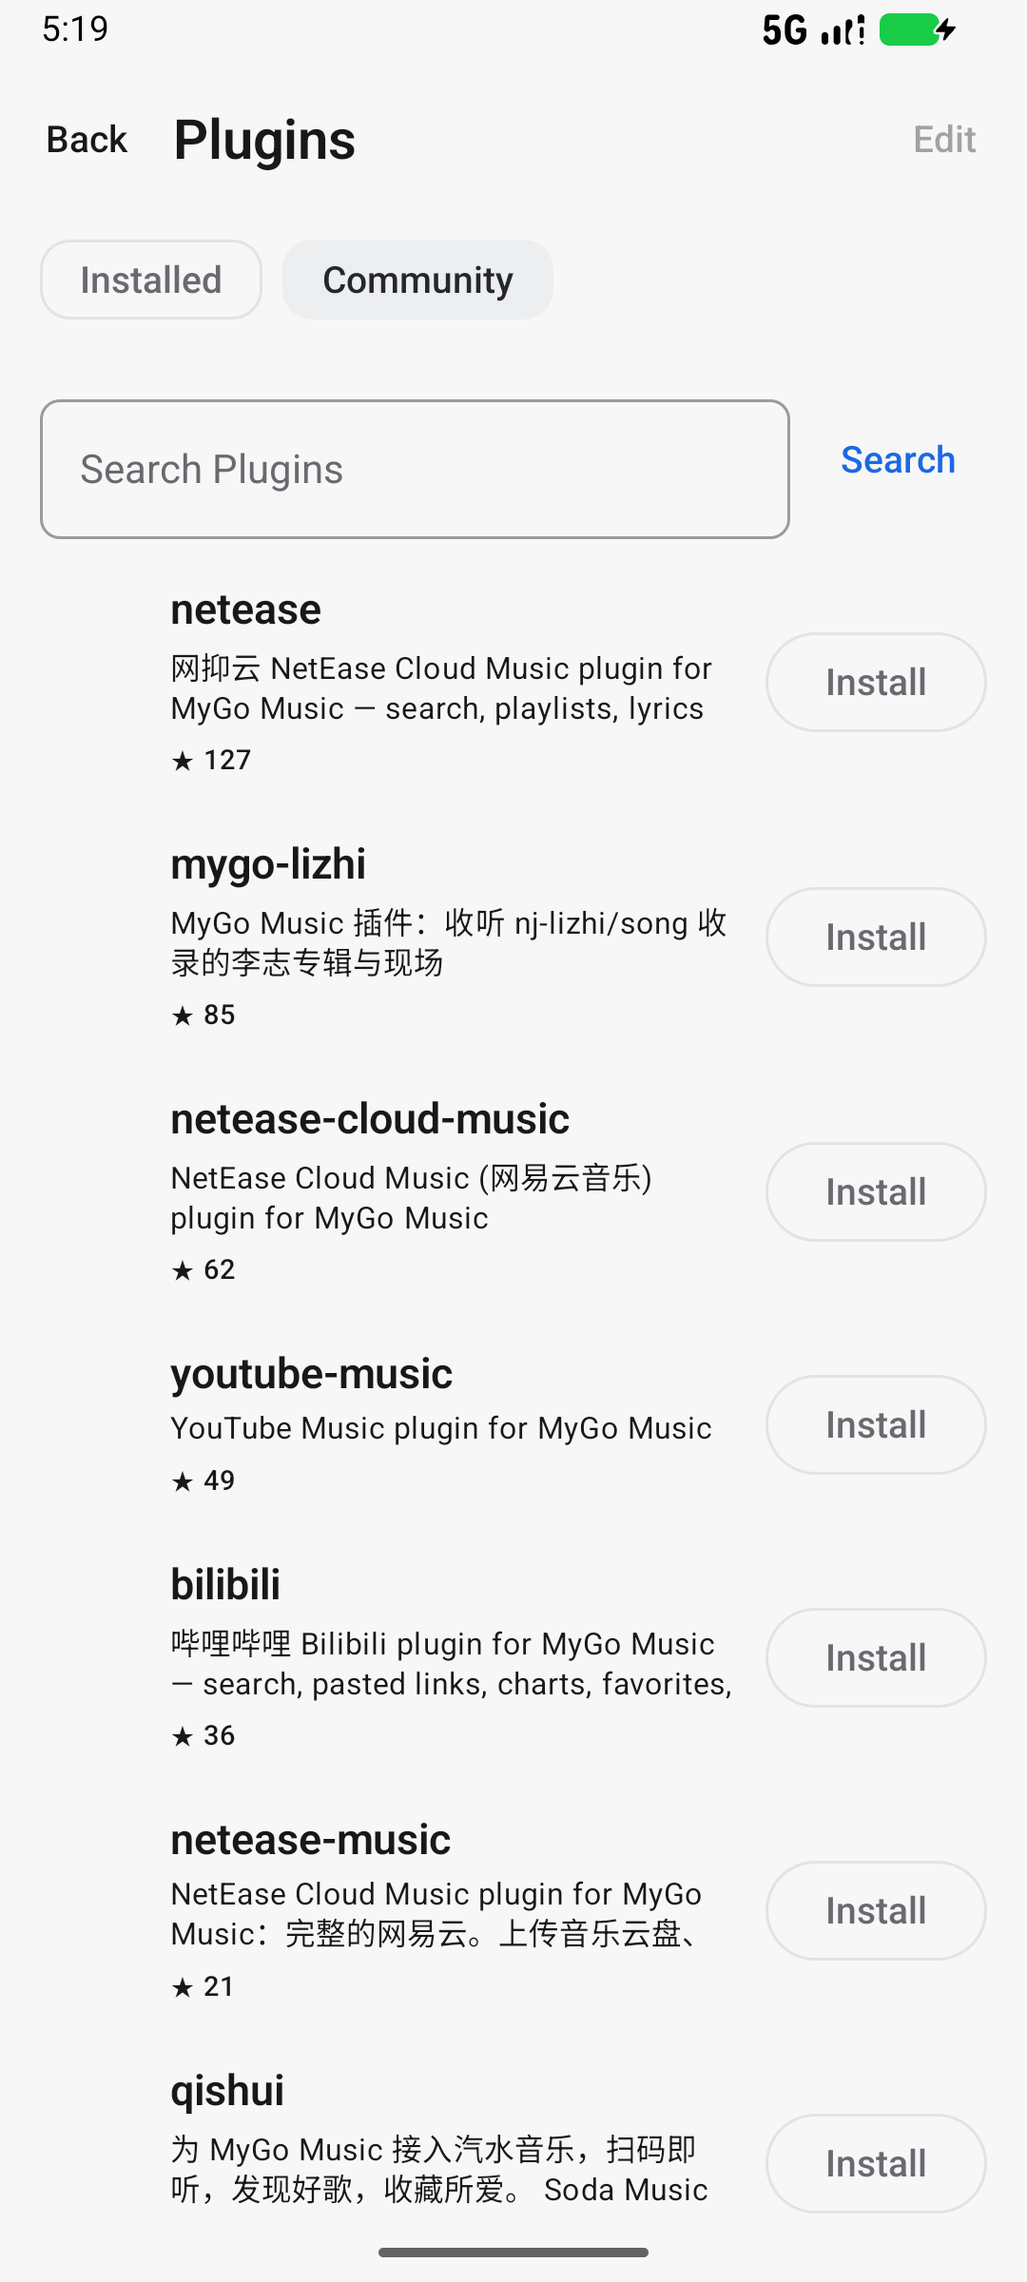
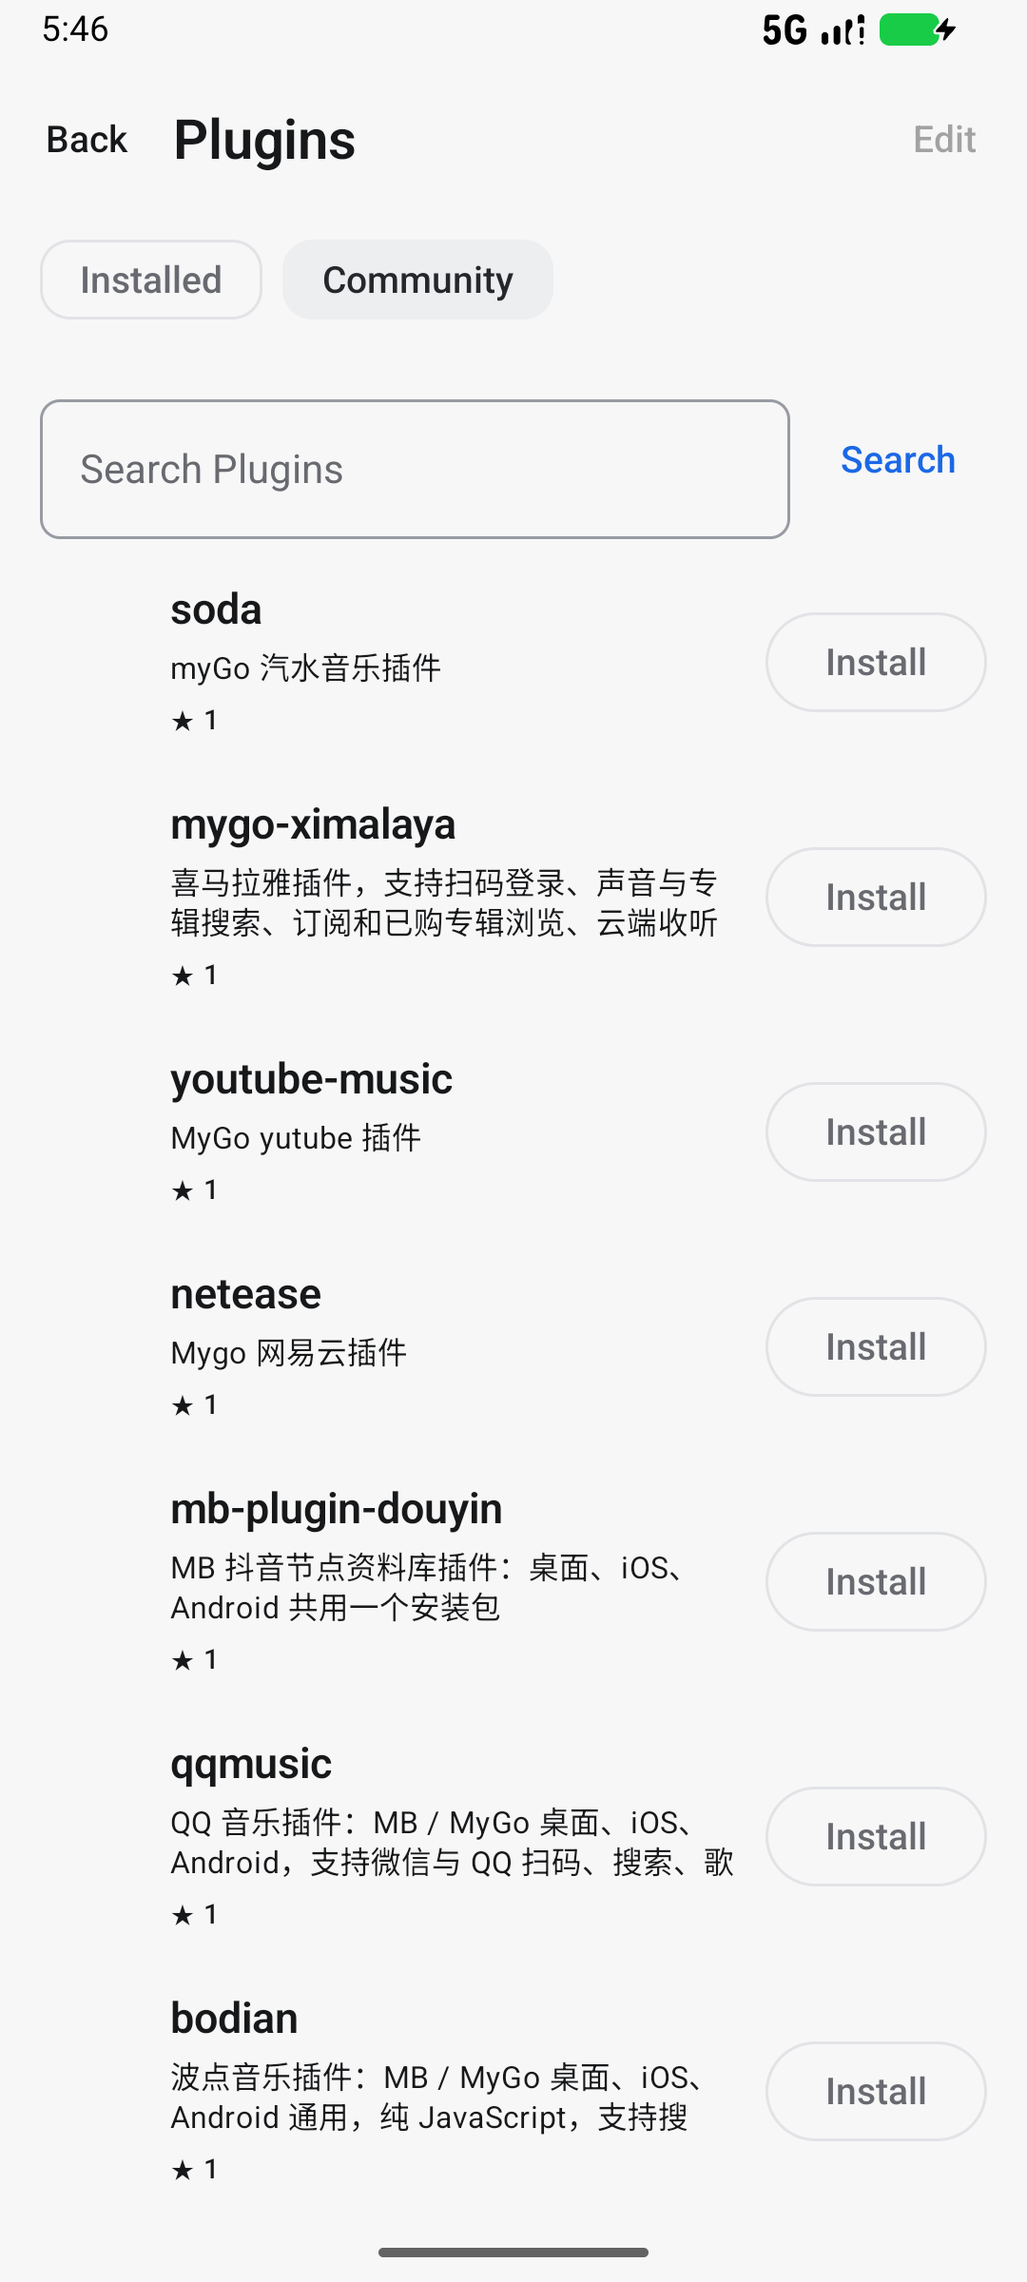
社区改用山海维护列表并移除 Android 批量导入

diff --git a/android/app/src/main/java/com/xtreeroot/mb/plugin/PluginCommunity.kt b/android/app/src/main/java/com/xtreeroot/mb/plugin/PluginCommunity.kt
@@ -1,14 +1,12 @@
 package com.xtreeroot.mb.plugin
 
 import java.io.File
-import java.net.URI
 import kotlinx.coroutines.CancellationException
 import kotlinx.coroutines.CoroutineScope
 import kotlinx.coroutines.Job
 import kotlinx.coroutines.flow.MutableStateFlow
 import kotlinx.coroutines.flow.asStateFlow
 import kotlinx.coroutines.launch
-import okhttp3.HttpUrl.Companion.toHttpUrl
 import org.json.JSONObject
 
 internal data class CommunityPlugin(val repository: String, val name: String, val description: String,
@@ -18,21 +16,23 @@ internal data class CommunityPlugin(val repository: String, val name: String, va
 internal data class PluginCommunityPage(val plugins: List<CommunityPlugin>, val more: Boolean)
 
 internal object PluginCommunity {
-    fun address(query: String, page: Int): URI = "https://api.github.com/search/repositories".toHttpUrl().newBuilder()
-        .addQueryParameter("q", "${query.trim()} topic:mygo-music-plugin archived:false".trim())
-        .addQueryParameter("sort", "stars").addQueryParameter("per_page", "30")
-        .addQueryParameter("page", page.coerceAtLeast(1).toString()).build().toUri()
+    const val catalog = "https://github.com/stars/xTreeRoot/lists/fork-mygo-%E5%B1%B1%E6%B5%B7-%E8%87%AA%E8%A1%8C%E7%BB%B4%E6%8A%A4%E4%BB%93%E5%BA%93-%E5%A4%9A%E5%B9%B3%E5%8F%B0"
 
-    fun decode(json: JSONObject, page: Int): PluginCommunityPage {
-        val items = json.getJSONArray("items")
-        val plugins = List(items.length()) { index ->
-            val item = items.getJSONObject(index)
-            val name = item.getString("name").replace(Regex("(?i)^mygo-music-(plugin-)?"), "")
-            CommunityPlugin(PluginRepository.parse(item.getString("full_name")), name,
-                if (item.isNull("description")) "" else item.getString("description"),
-                item.optJSONObject("owner")?.optString("avatar_url")?.takeIf(String::isNotBlank), item.optInt("stargazers_count"))
-        }
-        return PluginCommunityPage(plugins, plugins.size == 30 && page.coerceAtLeast(1) * 30 < minOf(json.getInt("total_count"), 1000))
+    fun page(catalog: List<CommunityPlugin>, query: String, page: Int): PluginCommunityPage {
+        val search = query.trim().lowercase(java.util.Locale.ROOT)
+        val filtered = catalog.filter { search.isEmpty() || "${it.name}\n${it.repository}\n${it.description}".lowercase(java.util.Locale.ROOT).contains(search) }
+        val start = minOf((page.coerceAtLeast(1) - 1) * 30, filtered.size)
+        val end = minOf(start + 30, filtered.size)
+        return PluginCommunityPage(filtered.subList(start, end), end < filtered.size)
+    }
+
+    fun repository(repository: String, metadata: JSONObject?): CommunityPlugin {
+        val repo = PluginRepository.parse(repository)
+        val raw = repo.substringAfter('/')
+        return CommunityPlugin(repo, raw.replace(Regex("(?i)^mygo-music-(plugin-)?"), "").ifBlank { raw },
+            metadata?.optString("description")?.takeUnless { it.isBlank() || it == "null" } ?: repo,
+            metadata?.optJSONObject("owner")?.optString("avatar_url")?.takeIf(String::isNotBlank)
+                ?: "https://github.com/${repo.substringBefore('/')}.png?size=120", metadata?.optInt("stargazers_count") ?: 0)
     }
 }
 

diff --git a/android/app/src/main/java/com/xtreeroot/mb/ui/PluginsView.kt b/android/app/src/main/java/com/xtreeroot/mb/ui/PluginsView.kt
@@ -56,7 +56,6 @@ internal fun PluginsView(model: PluginManagerModel, state: PluginManagerState, r
     var showFolder by rememberSaveable { mutableStateOf(false) }
     var repository by rememberSaveable { mutableStateOf("") }
     var showGitHub by rememberSaveable { mutableStateOf(false) }
-    var batchImport by rememberSaveable { mutableStateOf(false) }
     var reordering by rememberSaveable { mutableStateOf(false) }
     var rename by remember { mutableStateOf<InstalledPlugin?>(null) }
     var localName by remember { mutableStateOf("") }
@@ -99,8 +98,8 @@ internal fun PluginsView(model: PluginManagerModel, state: PluginManagerState, r
             if (community) PluginCommunityView(model.community, state.installed, state.busy, { model.prepareGitHub(it) })
             else PluginsOverview(state, reordering, { selected = it.id },
             { localName = it.localName.orEmpty(); rename = it }, { remove = it }, model::move,
-            { repository = ""; batchImport = true; showGitHub = true }, model::updateAll,
-            { showZip = true }, { showFolder = true }, { repository = ""; batchImport = false; showGitHub = true }, Modifier.weight(1f), display = { displaySettings = it }, marked = state.lastInstalledID)
+            model::updateAll,
+            { showZip = true }, { showFolder = true }, { repository = ""; showGitHub = true }, Modifier.weight(1f), display = { displaySettings = it }, marked = state.lastInstalledID)
         }
     }
     androidx.activity.compose.BackHandler(selected != null) { selected = null }
@@ -121,14 +120,14 @@ internal fun PluginsView(model: PluginManagerModel, state: PluginManagerState, r
     state.importReport?.let { PluginUpdateResultDialog(it, imported = true, model::dismissImportReport) }
     if (showGitHub) AlertDialog(
         onDismissRequest = { showGitHub = false }, title = {
-            Text(if (batchImport) mb("一键导入/覆盖", "Import / Overwrite") else mb("从 GitHub 安装", "Install from GitHub"))
+            Text(mb("从 GitHub 安装", "Install from GitHub"))
         },
         text = { OutlinedTextField(repository, { repository = it }, label = {
-            Text(if (batchImport) mb("插件仓库或列表网页地址", "Plugin repository or catalog web address") else "owner/repository")
+            Text("owner/repository")
         }, singleLine = true) },
         confirmButton = { TextButton(onClick = {
             showGitHub = false
-            if (batchImport) model.importGitHub(repository) else model.prepareGitHub(repository)
+            model.prepareGitHub(repository)
         }, enabled = repository.isNotBlank() && !state.busy) { Text(mb("检查", "Check")) } },
         dismissButton = { TextButton(onClick = { showGitHub = false }) { Text(mb("取消", "Cancel")) } },
     )

diff --git a/android/app/src/main/java/com/xtreeroot/mb/plugin/PluginRepository.kt b/android/app/src/main/java/com/xtreeroot/mb/plugin/PluginRepository.kt
@@ -1,5 +1,13 @@
 package com.xtreeroot.mb.plugin
 
+import kotlinx.coroutines.CancellationException
+import kotlinx.coroutines.async
+import kotlinx.coroutines.awaitAll
+import kotlinx.coroutines.coroutineScope
+import kotlinx.coroutines.sync.Mutex
+import kotlinx.coroutines.sync.withLock
+import kotlinx.coroutines.sync.Semaphore
+import kotlinx.coroutines.sync.withPermit
 import java.io.ByteArrayOutputStream
 import java.io.File
 import java.net.URI
@@ -79,8 +87,29 @@ internal object PluginRepository {
 }
 
 internal class GitHubPluginPackages(private val transport: PluginHttpTransport, private val abis: List<String>) {
-    suspend fun community(query: String, page: Int): PluginCommunityPage =
-        PluginCommunity.decode(checkNotNull(metadata(PluginCommunity.address(query, page))), page)
+    private val communityGate = Mutex()
+    private var communityCache: List<CommunityPlugin> = emptyList()
+    private var communityAt = 0L
+
+    suspend fun community(query: String, page: Int): PluginCommunityPage = communityGate.withLock {
+        if (communityAt == 0L || System.nanoTime() - communityAt >= java.util.concurrent.TimeUnit.HOURS.toNanos(1)) {
+            val excluded = setOf("xtreeroot/mb", "xtreeroot/shanhaimusic", "xtreeroot/mb-plugin-template")
+            val repos = repositories(PluginCommunity.catalog).filterNot { it.lowercase() in excluded }
+            val gate = Semaphore(4)
+            communityCache = coroutineScope {
+                repos.map { repo -> async {
+                    gate.withPermit {
+                        val info = try { metadata(uri("https://api.github.com/repos/$repo")) }
+                        catch (cancelled: CancellationException) { throw cancelled }
+                        catch (_: Exception) { null }
+                        PluginCommunity.repository(repo, info)
+                    }
+                } }.awaitAll()
+            }
+            communityAt = System.nanoTime()
+        }
+        PluginCommunity.page(communityCache, query, page)
+    }
 
     suspend fun repositories(input: String): List<String> {
         GitHubStarsList.repository(input)?.let { return listOf(it) }

diff --git a/android/app/src/test/java/com/xtreeroot/mb/plugin/PluginCommunityTest.kt b/android/app/src/test/java/com/xtreeroot/mb/plugin/PluginCommunityTest.kt
@@ -17,15 +17,15 @@ import org.junit.Test
 class PluginCommunityTest {
     private fun plugin(repo: String) = CommunityPlugin(repo, repo, "", null, 0)
 
-    @Test fun requestEncodesQueryAndStopsAtGitHubSearchLimit() {
-        val address = PluginCommunity.address(" 中文 & radio ", 0).toString().toHttpUrl()
-        assertEquals("中文 & radio topic:mygo-music-plugin archived:false", address.queryParameter("q"))
-        assertEquals("1", address.queryParameter("page"))
-        val item = JSONObject().put("full_name", "owner/radio").put("name", "mygo-music-plugin-radio").put("description", JSONObject.NULL)
-        val json = JSONObject().put("total_count", 5000).put("items", JSONArray(List(30) { item }))
-        assertTrue(PluginCommunity.decode(json, 33).more)
-        assertFalse(PluginCommunity.decode(json, 34).more)
-        assertEquals("radio", PluginCommunity.decode(json, 1).plugins.first().name)
+    @Test fun searchAndPaginationStayInsideMaintainedList() {
+        assertTrue(PluginCommunity.catalog.startsWith("https://github.com/stars/xTreeRoot/lists/"))
+        val catalog = List(32) { plugin("owner/plugin-$it") }
+        assertEquals(30, PluginCommunity.page(catalog, "", 1).plugins.size)
+        assertTrue(PluginCommunity.page(catalog, "", 1).more)
+        assertEquals(2, PluginCommunity.page(catalog, "", 2).plugins.size)
+        assertFalse(PluginCommunity.page(catalog, "", 2).more)
+        assertEquals(listOf("owner/plugin-31"), PluginCommunity.page(catalog, "PLUGIN-31", 1).plugins.map { it.repository })
+        assertTrue(PluginCommunity.page(catalog, "outside-directory", 1).plugins.isEmpty())
     }
 
     @Test fun paginationRetriesAndDeduplicatesWithoutLosingTheFirstPage() = runTest {

diff --git a/android/app/src/androidTest/java/com/xtreeroot/mb/ui/PluginCenterDeviceTest.kt b/android/app/src/androidTest/java/com/xtreeroot/mb/ui/PluginCenterDeviceTest.kt
@@ -1,5 +1,8 @@
 package com.xtreeroot.mb.ui
 
+import com.xtreeroot.mb.MBApplication
+import kotlinx.coroutines.runBlocking
+import kotlinx.coroutines.withTimeout
 import android.content.Intent
 import android.graphics.Bitmap
 import android.os.SystemClock
@@ -28,13 +31,21 @@ class PluginCenterDeviceTest {
         if (InstrumentationRegistry.getArguments().getString("communityLive") == "true") {
             val deadline = SystemClock.uptimeMillis() + 45_000
             while (SystemClock.uptimeMillis() < deadline && find("安装", "Install") == null) SystemClock.sleep(100)
+            if (find("安装", "Install") == null) screenshot("community-failure")
             assertTrue("GitHub community must expose installable repositories", find("安装", "Install") != null)
         }
         screenshot("community")
         click("已安装", "Installed")
         assertTrue(waitFor("从 GitHub 安装", "Install from GitHub") != null)
-        assertTrue(find("一键导入/覆盖", "Import / Overwrite") != null)
         screenshot("installed")
+    }
+
+    @Test fun maintainedCatalogLive() = runBlocking {
+        if (InstrumentationRegistry.getArguments().getString("communityLive") != "true") return@runBlocking
+        val app = instrumentation.targetContext.applicationContext as MBApplication
+        val page = withTimeout(90_000) { app.pluginPackages.community("", 1) }
+        assertTrue(page.plugins.isNotEmpty())
+        println("Maintained repositories: " + page.plugins.joinToString { it.repository })
     }
 
     private fun find(vararg labels: String): AccessibilityNodeInfo? {

diff --git a/android/app/src/main/java/com/xtreeroot/mb/ui/PluginManagerLayout.kt b/android/app/src/main/java/com/xtreeroot/mb/ui/PluginManagerLayout.kt
@@ -38,16 +38,12 @@ import kotlin.math.roundToInt
 @Composable
 internal fun PluginsOverview(state: PluginManagerState, reordering: Boolean, open: (InstalledPlugin) -> Unit,
                               rename: (InstalledPlugin) -> Unit, remove: (InstalledPlugin) -> Unit,
-                              move: (InstalledPlugin, Int) -> Unit, import: () -> Unit, update: () -> Unit,
+                              move: (InstalledPlugin, Int) -> Unit, update: () -> Unit,
                               zip: () -> Unit, folder: () -> Unit, github: () -> Unit, modifier: Modifier = Modifier, display: (InstalledPlugin) -> Unit = {}, marked: String? = null) {
     LazyColumn(modifier.fillMaxSize(), contentPadding = PaddingValues(bottom = 24.dp)) {
         item {
             MBGroupedSection {
                 Row(Modifier.fillMaxWidth().padding(horizontal = 4.dp), horizontalArrangement = Arrangement.SpaceBetween) {
-                    MBTextButton(import, enabled = !state.busy && state.pending == null) {
-                        Icon(painterResource(R.drawable.ic_download), null, Modifier.size(18.dp)); Spacer(Modifier.width(6.dp))
-                        Text(mb("一键导入/覆盖", "Import / Overwrite"))
-                    }
                     MBTextButton(update, enabled = !state.busy && state.installed.any { it.repository != null }) {
                         Icon(painterResource(R.drawable.ic_download), null, Modifier.size(18.dp)); Spacer(Modifier.width(6.dp))
                         Text(mb("全部更新", "Update All"))

diff --git a/android/app/src/main/java/com/xtreeroot/mb/ui/PluginCommunityView.kt b/android/app/src/main/java/com/xtreeroot/mb/ui/PluginCommunityView.kt
@@ -42,7 +42,7 @@ internal fun PluginCommunityView(model: PluginCommunityPager, installed: List<In
                 Column(Modifier.weight(1f), verticalArrangement = Arrangement.spacedBy(4.dp)) {
                     Text(plugin.name, style = MaterialTheme.typography.titleMedium)
                     Text(plugin.description.ifBlank { plugin.repository }, maxLines = 2, style = MaterialTheme.typography.bodySmall)
-                    Text("★ ${plugin.stars}", style = MaterialTheme.typography.labelSmall)
+                    if (plugin.stars > 0) Text("★ ${plugin.stars}", style = MaterialTheme.typography.labelSmall)
                 }
                 if (installed.any { it.repository.equals(plugin.repository, true) }) Text(mb("已安装", "Installed"), style = MaterialTheme.typography.labelMedium)
                 else OutlinedButton(onClick = { install(plugin.repository) }, enabled = !busy) { Text(mb("安装", "Install")) }

diff --git a/android/app/src/androidTest/java/com/xtreeroot/mb/ui/DiscoverySectionsDeviceTest.kt b/android/app/src/androidTest/java/com/xtreeroot/mb/ui/DiscoverySectionsDeviceTest.kt
@@ -48,7 +48,7 @@ class DiscoverySectionsDeviceTest {
                 Box(Modifier.fillMaxSize().safeDrawingPadding()) {
                     if (open.value) DiscoverySectionsEditor(manifest, installer) { open.value = false }
                     else if (detail.value) Text("插件详情已打开")
-                    else PluginsOverview(PluginManagerState(installed = listOf(plugin)), false, { detail.value = true }, {}, {}, { _, _ -> }, {}, {}, {}, {}, {}, display = { open.value = true })
+                    else PluginsOverview(PluginManagerState(installed = listOf(plugin)), false, { detail.value = true }, {}, {}, { _, _ -> }, {}, {}, {}, {}, display = { open.value = true })
 
                 }
             } } } }

diff --git a/android/review/PluginCenter/README.md b/android/review/PluginCenter/README.md
@@ -1,7 +1,9 @@
-# 插件中心 · Android 0.1.57
+# 插件中心 · Android 0.1.58
 
-2026-11-26：插件管理增加已安装/社区切换、GitHub 搜索、分页、重试、插件图标和安装后定位高亮。保留名称排序、栏目设置、ZIP/文件夹、GitHub 与 Stars 导入、节点目录和私有数据。
+2026-11-26：插件管理增加已安装/社区切换、山海维护 Stars 列表内搜索、分页、重试、插件图标和安装后定位高亮。保留名称排序、栏目设置、ZIP/文件夹、单个 GitHub 仓库安装、节点目录和私有数据。
 
-验证：196 项 JVM 单测、Lint 与 Debug APK 构建通过；专用无窗口模拟器的 `PluginCenterDeviceTest` 验证社区搜索入口及返回已安装管理；附加 `communityLive=true` 已验证 GitHub 真实目录返回可安装仓库。社区加载界面见 [community.png](community.png)，原管理功能见 [installed.png](installed.png)。分页失败恢复、去重、取消旧查询和图标路径由 `PluginCommunityTest` 验证；界面截图不代表已完成第三方插件登录或播放。
+验证：196 项 JVM 单测、Lint 与 Debug APK 构建通过；专用无窗口模拟器的 `PluginCenterDeviceTest` 验证社区搜索入口及返回已安装管理；附加 `communityLive=true` 的两项实网测试已验证维护列表返回可安装仓库及真实服务端列表。模拟器使用现有 Mac HTTP 代理作为测试网络，结束后恢复原代理配置。社区加载界面见 [community.png](community.png)，原管理功能见 [installed.png](installed.png)。分页失败恢复、去重、取消旧查询和图标路径由 `PluginCommunityTest` 验证；界面截图不代表已完成第三方插件登录或播放。
 
 首次启动模拟器遇到 System UI 无响应，恢复系统界面后继续。初次 UI 测试对更多菜单的名称不匹配，已依据真实可访问名称修正。原始记录位于本工作树 `.build/plugin-center/`，没有清空或卸载真实设备上的应用。
+
+一键导入/覆盖入口已移除，社区仅显示维护列表中的插件，排除主程序和插件模板。

diff --git a/plugins/README.md b/plugins/README.md
@@ -93,4 +93,4 @@ go tool mygo vet .
 
 可选清单字段 `icon` 指向插件包内的相对图片路径，推荐至少 120 × 120 的 PNG、JPEG 或 WebP。三端插件管理显示该图标；未声明时使用 GitHub 仓库作者头像或默认图标。绝对路径和包外相对路径不作为图标读取。图标仅用于宿主界面，不新增插件网络或文件权限。
 
-插件中心提供已安装列表、社区搜索和分页安装；社区依据 GitHub 的 `mygo-music-plugin` 主题发现仓库。目录项不代表运行兼容性或审核结果，安装继续经过当前端的清单、最低版本、能力和权限检查。安装成功返回已安装并定位高亮，原名称、排序、栏目选择、私有存储与账号数据沿用原机制。节点签名目录和 Stars 导入继续独立使用，无新增服务端接口。
+插件中心提供已安装列表、社区搜索和分页安装；社区只展示[山海维护的 GitHub Stars 列表](https://github.com/stars/xTreeRoot/lists/fork-mygo-%E5%B1%B1%E6%B5%B7-%E8%87%AA%E8%A1%8C%E7%BB%B4%E6%8A%A4%E4%BB%93%E5%BA%93-%E5%A4%9A%E5%B9%B3%E5%8F%B0)中的插件，搜索和分页均在该列表内进行。目录项不代表运行兼容性或审核结果，安装继续经过当前端的清单、最低版本、能力和权限检查。安装成功返回已安装并定位高亮，原名称、排序、栏目选择、私有存储与账号数据沿用原机制。一键导入/覆盖入口已移除；节点签名目录继续独立使用，无新增服务端接口。
